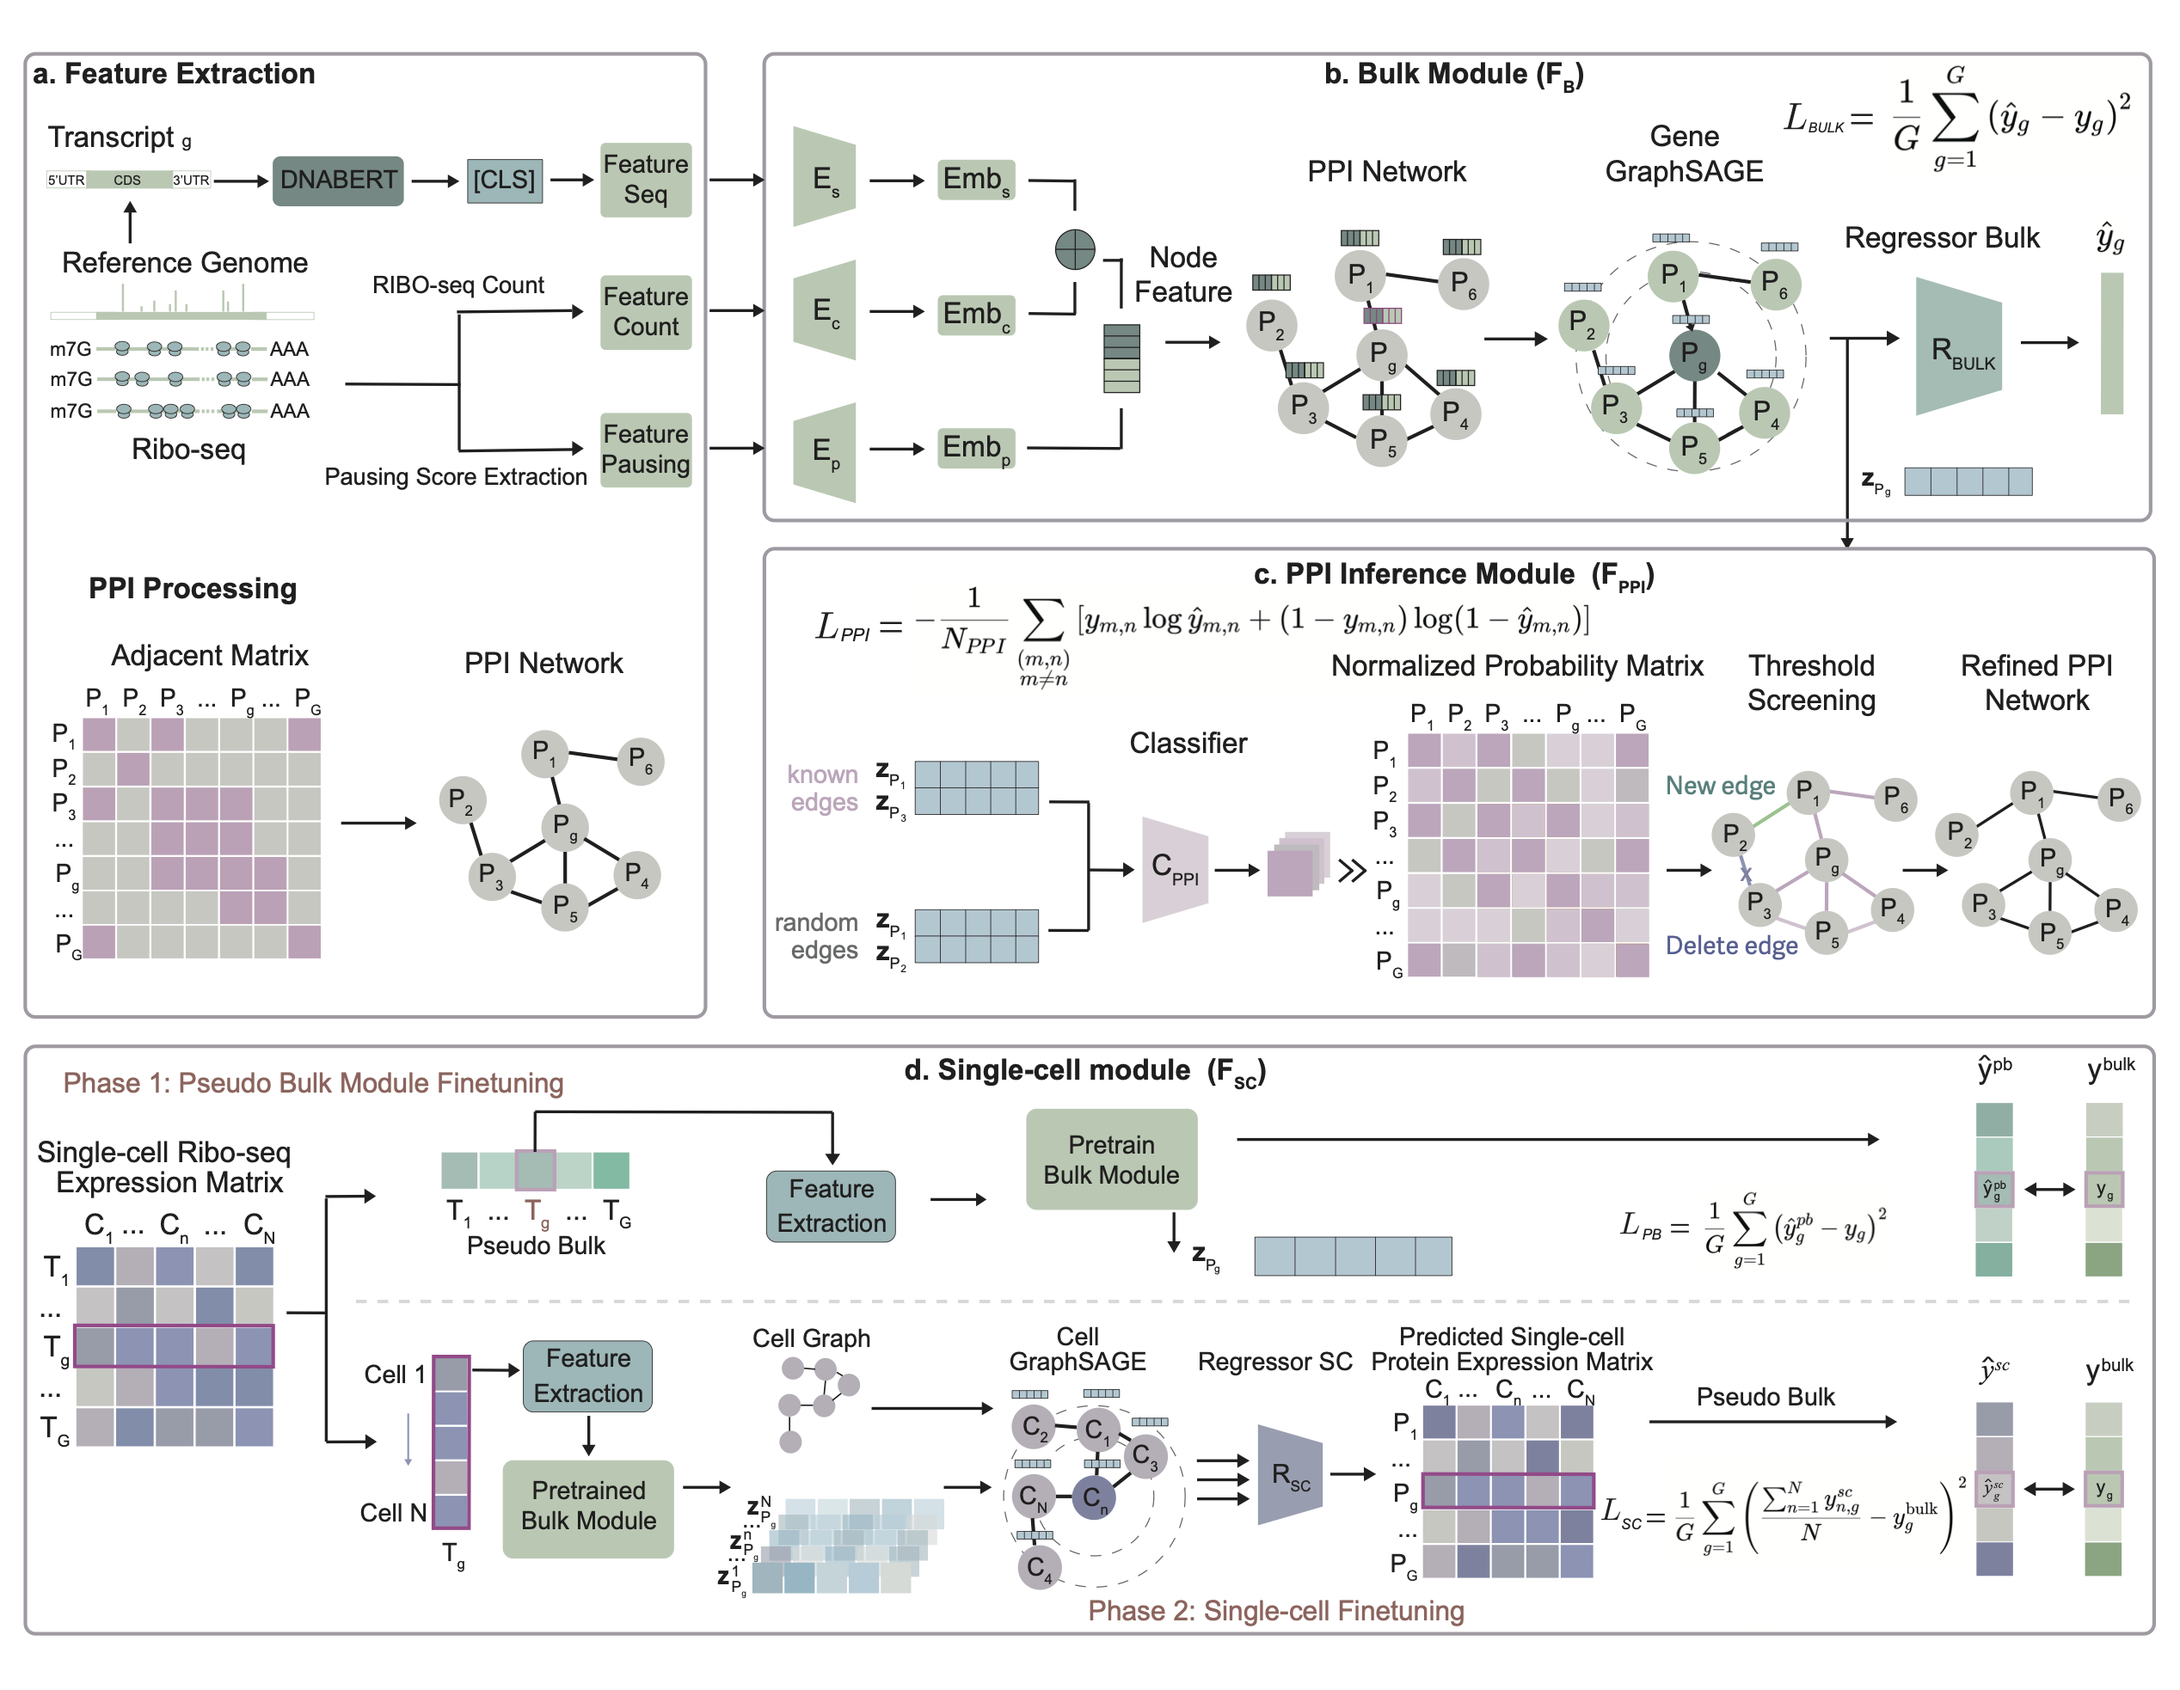
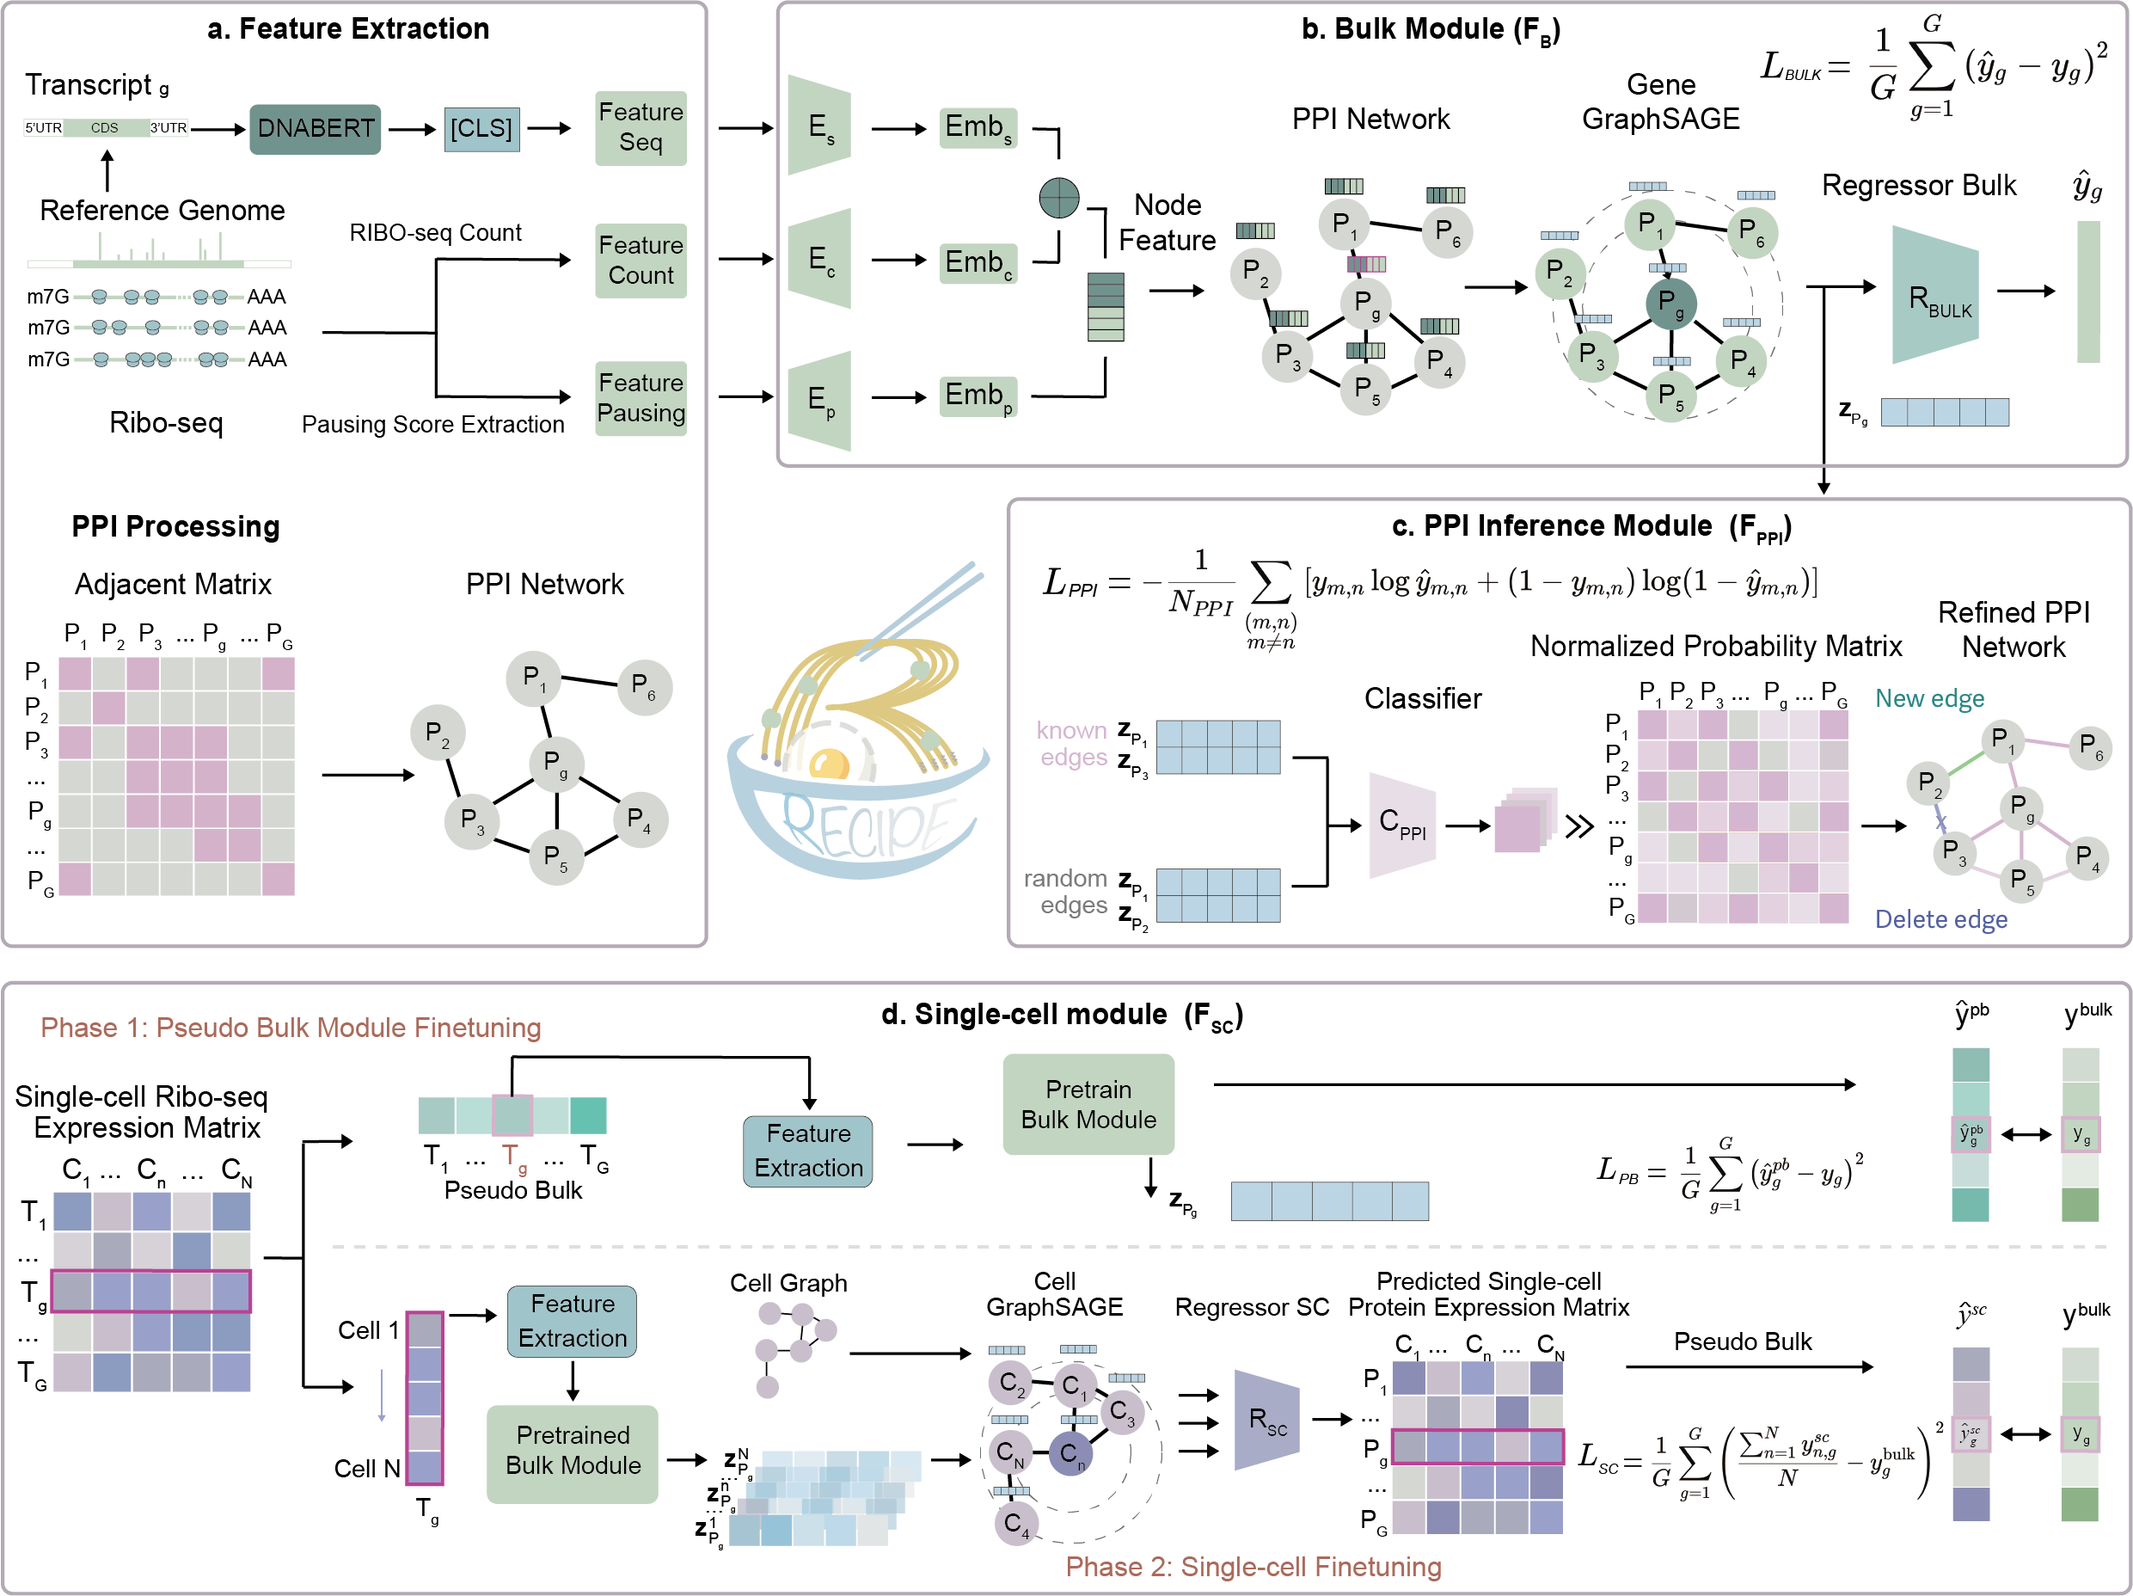
test

Changed region(s): [[0.0, 0.0, 1.0, 1.0], [0.7449, 0.7188, 0.869, 0.75]]

diff --git a/README.md b/README.md
@@ -1,6 +1,8 @@
 
 <h1 align="center">RECIPE bridges transcriptomics and proteomics with deep graph learning on Ribo-seq data</h1>
 
+![logo](RECIPE_logo.png)
+
 ## Overview
 
 Direct protein quantification is limited by cost and coverage of mass spectrometry and antibody-based assays. These challenges are especially severe at the single-cell level, where proteomics remains extremely restricted. Computational inference from RNA-seq is attractive but hindered by the mismatch between transcript and protein abundance. Ribosome profiling (Ribo-seq) captures ribosome occupancy and translational dynamics, but not absolute protein abundance. Here we introduce RECIPE, a deep graph learning framework that integrates Ribo-seq signals, transcript features, and protein–protein interactions to estimate protein abundance. Built on a GraphSAGE architecture, RECIPE leverages network connectivity to generalize beyond training-observed proteins, enabling accurate prediction of low-abundance and undetected proteins. RECIPE also refines protein–protein interaction networks by identifying missing and spurious edges, extending utility. Benchmarking across human and mouse datasets shows that RECIPE outperforms state-of-the-art approaches. RECIPE enables generalizable protein estimation at bulk and single-cell resolution and advances translatomics by linking translational dynamics with interactome refinement.
